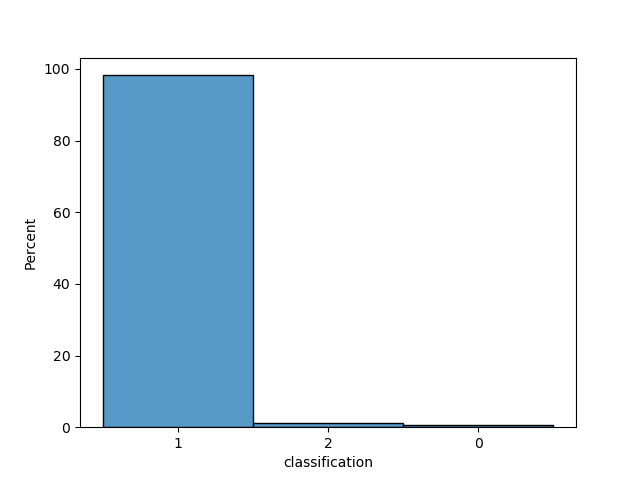
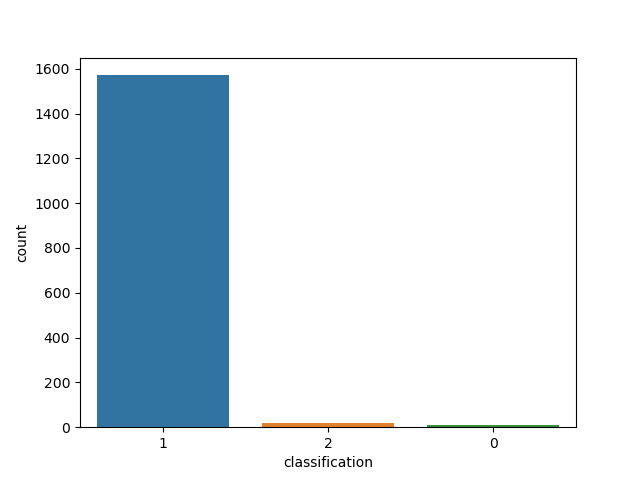
[ML_P-0003] - SVC implemented The SVC was implemented the same way as the logistic regression classifier. The most optimal model is saved after many models being generated by different parameters. A Confusion matrix is generated as well.

Changed region(s): [[0.0312, 0.1562, 0.875, 0.9375], [0.0625, 0.125, 0.0938, 0.1562]]

diff --git a/src/wine_svc.py b/src/wine_svc.py
@@ -1,0 +1,104 @@
+# FEUP | PDEEC | 2021/2022 | MACHINE LEARNING
+# Pedro Guedes - up202101510@up.pt
+# Rafael Cabral - up201609762@edu.fe.up.pt
+# Idilson Nhamage - up202011161@edu.fe.up.pt
+
+# *********************************************************************************************************************#
+
+from sklearn import svm
+from sklearn.metrics import confusion_matrix, accuracy_score
+import numpy as np
+import pickle
+import seaborn as sns
+import matplotlib.pyplot as plt
+import pathlib
+import os
+
+
+def wine_svc(X_train, Y_train, X_val, Y_val):
+    """
+    SVC classifier optimal model generator.
+    :param training: training set
+    :param validation: validation set
+    :param test: testing set
+    :return: returns the optimal model
+    """
+
+    kernel_array = ['linear', 'poly', 'rbf', 'sigmoid']
+
+    # C parameter - Regularization parameters for SVC models
+    # Inverse of regularization strength. Smaller the stronger the regularization
+    c_starting = 0.5
+    c_ending = 5
+    c_step = 0.1
+
+    C_parameter = np.arange(c_starting, c_ending, c_step)
+
+    # degree - polynomial degree parameters for SVC models (only considered in poly, ignored in the other kernels)
+    degree_array = np.arange(1, 6, 1)
+
+    gamma_array = np.arange(0.1, 2, 0.1)
+
+    # preparing for a set of different models
+    model = []
+    model_accuracy = []
+    model_predictions = []
+    model_index = 0
+
+    # creating and training the models
+    for kernel in kernel_array:
+        for degree in degree_array:
+            for C in C_parameter:
+                for gamma in gamma_array:
+                    # append all the generated models with different parameters
+                    model.append(svm.SVC(C=C, kernel=kernel, degree=degree, gamma=gamma))
+
+                    # fit the data to each model
+                    model[model_index].fit(X_train, Y_train)
+                    # predict the values with the validation set
+                    model_predictions.append(model[model_index].predict(X_val))
+                    # compute the current model's accuracy, normalized
+                    model_accuracy.append(accuracy_score(Y_val, model_predictions[model_index], normalize=True))
+                    model_index += 1
+
+    # find which model had the best accuracy
+    best_accuracy = np.argmax(model_accuracy)
+    # print the parameters
+    optimized_parameters = model[best_accuracy].get_params(deep=True)
+    print('Overall optimal parameters in SVC: ', optimized_parameters)
+
+    # compute the individual predictions for the training and validation sets
+    model_training_prediction = model[best_accuracy].predict(X_train)
+    model_validation_prediction = model[best_accuracy].predict(X_val)
+
+    model_training_accuracy = accuracy_score(Y_train, model_training_prediction, normalize=True)
+    model_validation_accuracy = accuracy_score(Y_val, model_validation_prediction, normalize=True)
+
+    # helps the user to visualize the results through the console
+    print('SVC Score')
+    print('Training Accuracy Score is: ', model_training_accuracy)
+    print('Validation Accuracy Score is: ', model_validation_accuracy)
+
+    actual_dir = pathlib.Path().absolute()
+    path = str(actual_dir) + '/models/svc_model_py3_8.sav'
+    pickle.dump(model[best_accuracy], open(path, 'wb'))
+
+    svc_conf_matrix = confusion_matrix(Y_val, model_predictions[best_accuracy])
+    print(svc_conf_matrix)
+
+    actual_dir = pathlib.Path().absolute()
+    path = str(actual_dir) + '/figures/svc_cmatrix_val.png'
+
+    # Generate a Model Validation Confusion Matrix
+    # if the figure is not saved yet, it will be generated
+    if not os.path.exists(path):
+        confusion_matrix_plot = plt.subplot()
+        sns.heatmap(svc_conf_matrix, annot=True, fmt='g', ax=confusion_matrix_plot)
+        # labels, title and ticks
+        confusion_matrix_plot.set_ylabel('True labels')
+        confusion_matrix_plot.set_title('SVC Confusion Matrix - Validation Set')
+        confusion_matrix_plot.xaxis.set_ticklabels(['Awful', 'Average', 'Excellent'])
+        confusion_matrix_plot.yaxis.set_ticklabels(['Awful', 'Average', 'Excellent'])
+        confusion_matrix_plot.figure.savefig(path)
+
+    return model[best_accuracy]

diff --git a/src/wine_classifier.py b/src/wine_classifier.py
@@ -1,21 +1,24 @@
-# Idilson
-# Pedro Guedes
-# Rafael Cabral
+# Pedro Guedes - up202101510@up.pt
+# Rafael Cabral - up201609762@edu.fe.up.pt
+# Idilson Nhamage - up202011161@edu.fe.up.pt
 # FEUP | PDEEC | Machine Learning 2021/2022
 
 # *********************************** ---------------------------------- *********************************** #
 
 # Libraries' import
-
 import numpy as np
 import pandas as pd
 from sklearn.preprocessing import StandardScaler
 from sklearn.metrics import accuracy_score
-from dataset_loader import dataset_loader
 from wine_logistic_regression import wine_log_regression
 import pathlib
 import os
 import pickle
+
+# created functions
+from dataset_loader import dataset_loader
+from wine_svc import wine_svc
+
 
 # load the dataset without any missing data and divided in training, validation and test sets
 dataset = dataset_loader()
@@ -45,4 +48,12 @@ if not os.path.exists(path):
     log_reg_model = wine_log_regression(X_train, Y_train, X_val, Y_val)
 else:
     log_reg_model = pickle.load(open(path, 'rb'))
+
+path = str(actual_dir) + '/models/svc_model_py3_8.sav'
+
+# modeling the Logistic Regression Model. If one is already trained and optimized, it is going to be loaded instead
+if not os.path.exists(path):
+    svc_model = wine_svc(X_train, Y_train, X_val, Y_val)
+else:
+    svc_model = pickle.load(open(path, 'rb'))
 

diff --git a/src/wine_logistic_regression.py b/src/wine_logistic_regression.py
@@ -1,9 +1,15 @@
+# Pedro Guedes - up202101510@up.pt
+# Rafael Cabral - up201609762@edu.fe.up.pt
+# Idilson Nhamage - up202011161@edu.fe.up.pt
+# FEUP | PDEEC | Machine Learning 2021/2022
+
+# *********************************** ---------------------------------- *********************************** #
 from sklearn.linear_model import LogisticRegression
 from sklearn.metrics import confusion_matrix, accuracy_score
 import numpy as np
 import pickle
-import pathlib
 import seaborn as sns
+import matplotlib.pyplot as plt
 import pathlib
 import os
 
@@ -74,10 +80,6 @@ def wine_log_regression(X_train, Y_train, X_val, Y_val):
     actual_dir = pathlib.Path().absolute()
     path = str(actual_dir) + '/models/log_reg_model_py3_8.sav'
     pickle.dump(model[best_accuracy], open(path, 'wb'))
-
-    # TODO - Expose the results graphically
-    import seaborn as sns
-    import matplotlib.pyplot as plt
 
     log_reg_conf_matrix = confusion_matrix(Y_val, model_predictions[best_accuracy])
     print(log_reg_conf_matrix)

diff --git a/src/dataset_loader.py b/src/dataset_loader.py
@@ -1,6 +1,6 @@
-# Idilson
-# Pedro Guedes
-# Rafael Cabral
+# Pedro Guedes - up202101510@up.pt
+# Rafael Cabral - up201609762@edu.fe.up.pt
+# Idilson Nhamage - up202011161@edu.fe.up.pt
 # FEUP | PDEEC | Machine Learning 2021/2022
 
 # *********************************** ---------------------------------- *********************************** #
@@ -136,7 +136,7 @@ def dataset_splitter(raw_dataset):
     # if the figure is not saved yet, it will be generated
     if not os.path.exists(path):
         # pair plotting the data
-        histogram_figure = sb.histplot(raw_dataset['classification'], stat="percent", discrete=True)
+        histogram_figure = sb.countplot(x='classification', data=raw_dataset)
         histogram_figure = histogram_figure.get_figure()
         histogram_figure.savefig(path)
         plt.close(histogram_figure)
